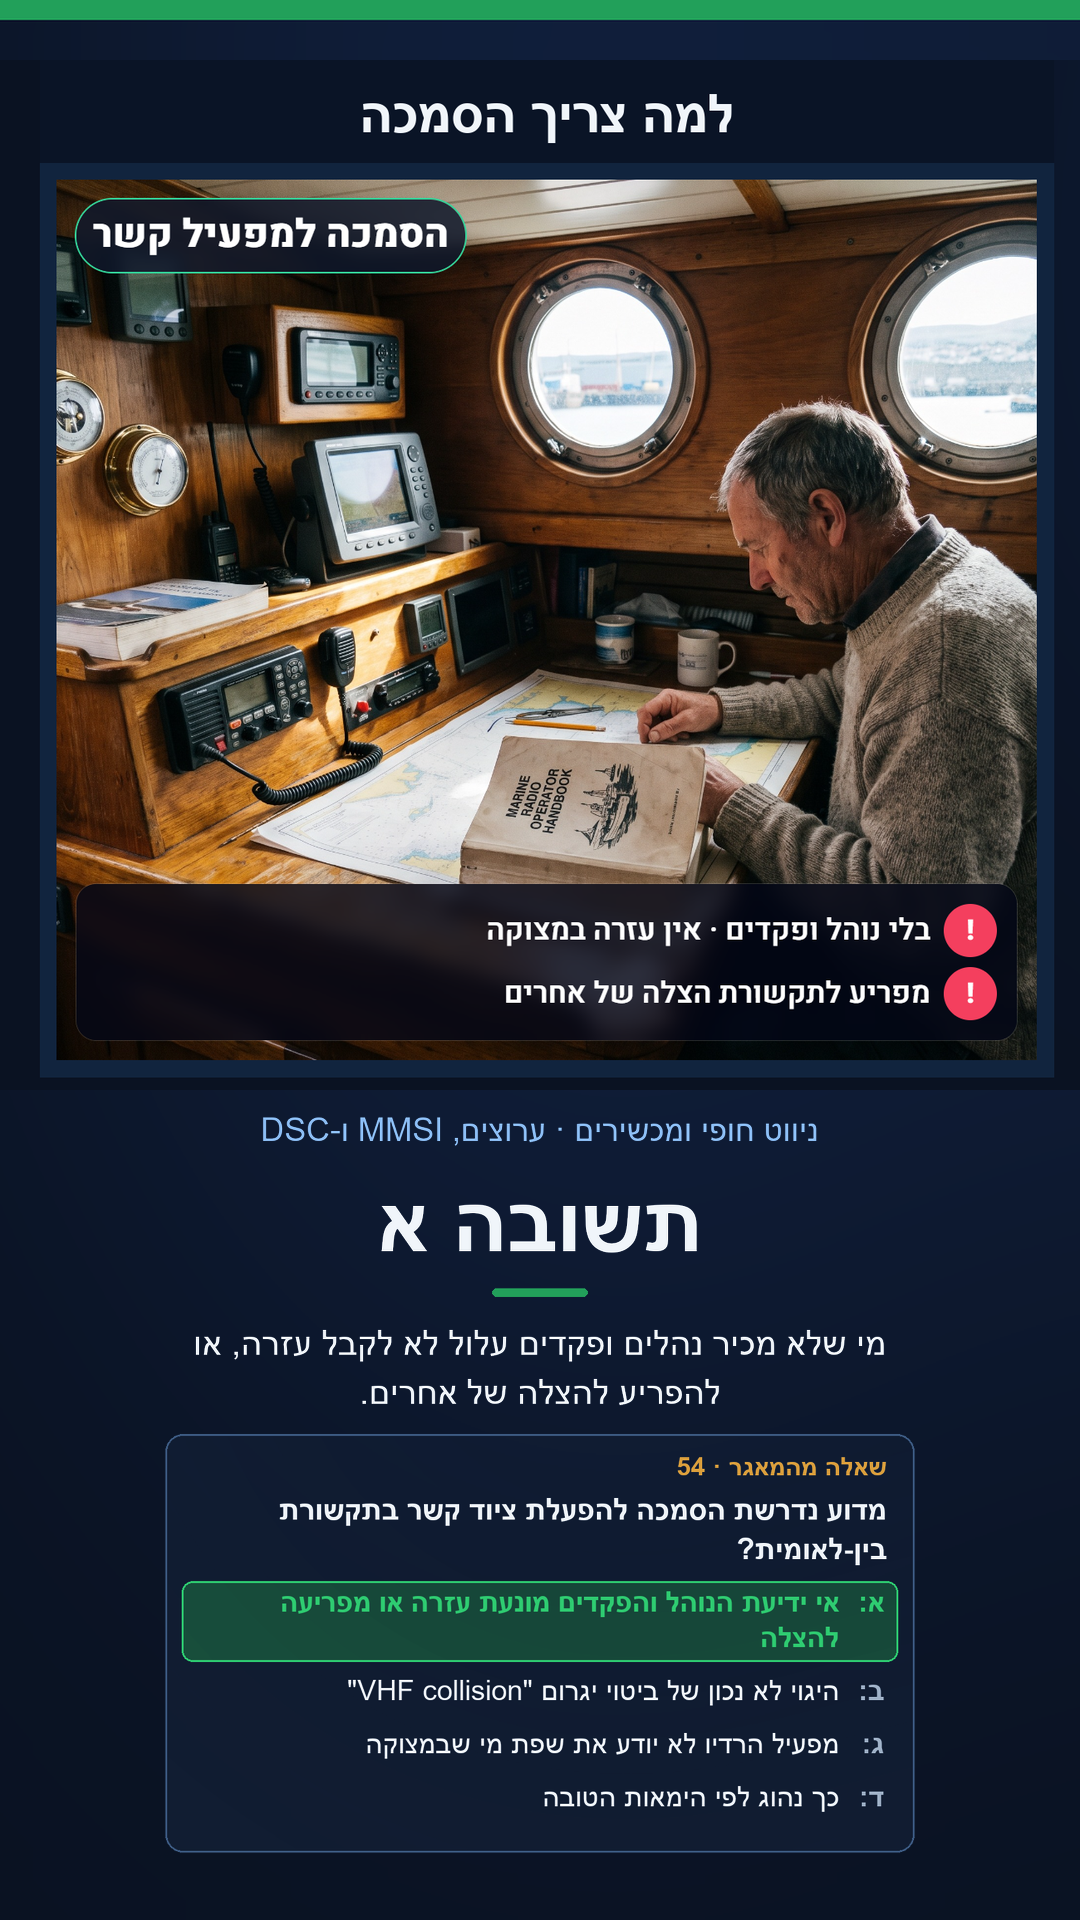
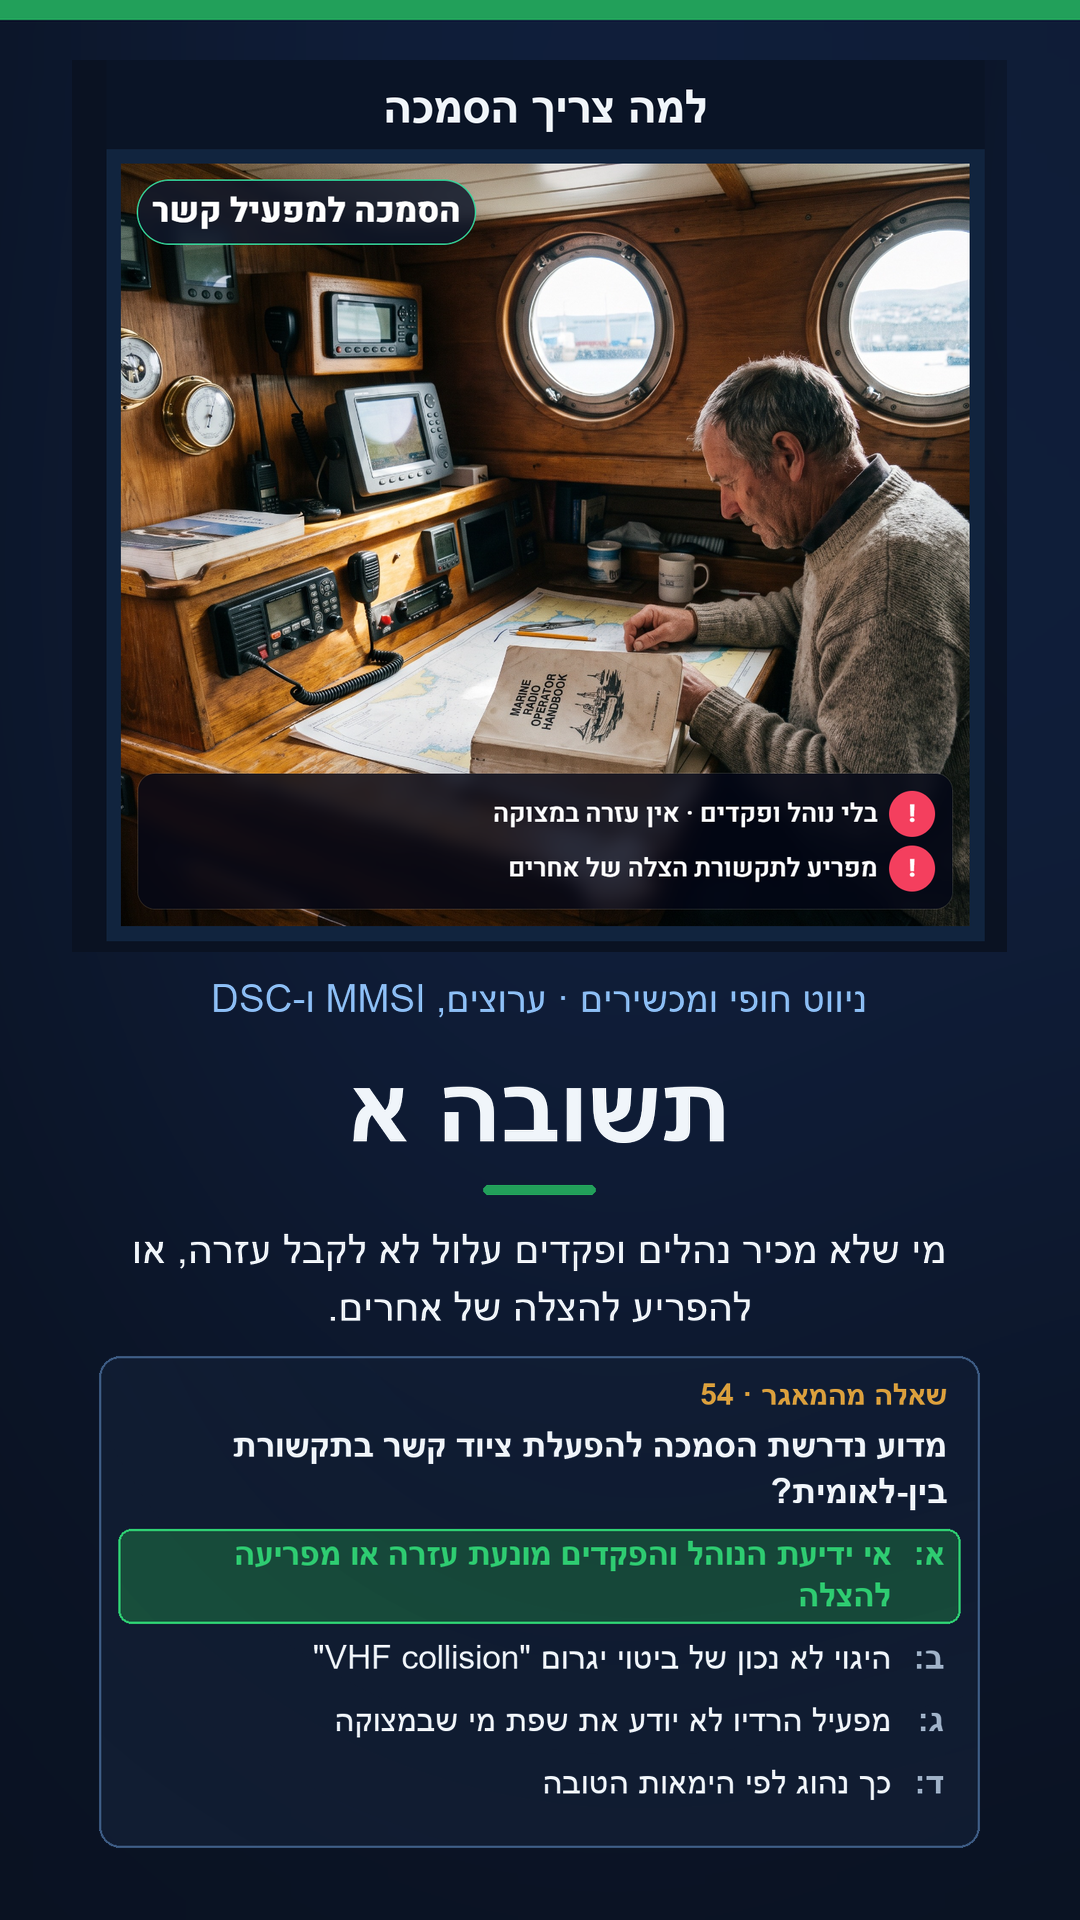
l30 mobile: 22 small-text phone cards rebuilt (shrink the visual, keep text >= 0.8 scale), lesson 5 s02_parts stacked; mobile videos of lessons 1-8, 10, 12, 14, 15 rebuilt

diff --git a/lessons/l30/sources/vertical.py b/lessons/l30/sources/vertical.py
@@ -13,6 +13,7 @@ LEFT = (0, 200, 1300, 1440)                     # caption + visual panel of a 25
 RIGHT = (1270, 0, 2560, 1440)                   # title, text, question
 BLANK = C.base()[0]
 BGIMG = BLANK.crop(RIGHT).resize((VW, VH), Image.LANCZOS)
+MIN_S = 0.8                                     # smallest scale for the title/text/question block on the phone
 
 def right_bbox(im, x0r=RIGHT[0]):
     """Tight box around the right block: diff against an empty card background."""
@@ -22,14 +23,31 @@ def right_bbox(im, x0r=RIGHT[0]):
     m = 40
     return (R[0] + max(0, x0 - m), max(0, y0 - m), R[0] + min(R[2] - R[0], x1 + m), min(1440, y1 + m))
 
+STACK = {'s02_parts': ((640, 40, 1920, 260), [(49, 290, 1267, 1414), (1293, 290, 2511, 1414)])}   # full-width cards: title + panels stacked
+
+def stack(im, dst, title, panels):
+    out = BGIMG.copy(); t = im.crop(title); t = t.resize((VW, round(t.height * VW / t.width)), Image.LANCZOS); out.paste(t, (0, 40))
+    y = 40 + t.height + 10; ph = (VH - y - 30) // len(panels) - 10
+    for box in panels:
+        p = im.crop(box); p = p.resize((round(p.width * ph / p.height), ph), Image.LANCZOS)
+        out.paste(p, ((VW - p.width) // 2, y)); y += ph + 10
+    out.save(dst)
+
 def vcard(src, dst):
     im = Image.open(src).convert('RGB')
+    sid = os.path.splitext(os.path.basename(src))[0]
+    if sid in STACK: return stack(im, dst, *STACK[sid])
     out = BGIMG.copy()
     top = im.crop(LEFT); top = top.resize((VW, round(top.height * VW / top.width)), Image.LANCZOS)
     out.paste(top, (0, 60))
     bb = right_bbox(im, 1305 if re.search(r'intro|summary', src) else RIGHT[0]); rb = im.crop(bb); room = VH - (60 + top.height) - 40
     mask = ImageChops.difference(rb, BLANK.crop(bb)).convert('L').point(lambda v: min(255, v * 6))   # content only, soft edges
     s = min(VW / rb.width, room / rb.height, 1.0)
+    if s < MIN_S and VW / rb.width >= MIN_S:        # tall right block: shrink the visual instead of the text (Alex 2026-10-15)
+        th = max(round(top.height * 0.55), VH - 60 - 40 - round(rb.height * MIN_S))
+        top = im.crop(LEFT); top = top.resize((round(top.width * th / top.height), th), Image.LANCZOS)
+        out = BGIMG.copy(); out.paste(top, ((VW - top.width) // 2, 60)); room = VH - (60 + th) - 40
+        s = min(VW / rb.width, room / rb.height, 1.0)
     if s < 0.7: print(f'  small text {s:.2f}: {os.path.basename(src)}', flush=True)
     sz = (round(rb.width * s), round(rb.height * s)); rb = rb.resize(sz, Image.LANCZOS); mask = mask.resize(sz, Image.LANCZOS)
     out.paste(rb, ((VW - rb.width) // 2, 60 + top.height + (room - rb.height) // 2), mask)

diff --git a/lessons/l30/mobile-status.md b/lessons/l30/mobile-status.md
@@ -29,7 +29,7 @@
 ## מה פתוח
 
 1. ~~שיעור 13, כרטיס s16~~ **תוקן (2026-10-15):** סרטון הכרטיס הוחזר, נבנו רחב, כתוביות ונייד (כולל קליפ 9:16).
-2. **11 כרטיסי נייד שהטקסט בהם יוצא קטן** (scale מתחת ל-0.7), בשיעורים 2-5 ו-15. כדי לתקן צריך לבנות אותם מחדש בפריסה החדשה, זו שבה מגבלות השורות נאכפות בקוד, ואז לבנות מחדש את הנייד של אותם שיעורים.
+2. ~~כרטיסי נייד עם טקסט קטן~~ **תוקן (2026-10-15):** 22 כרטיסים (לא 11) בשיעורים 1-8, 10, 12, 14, 15. ה-visual מוקטן במקום הטקסט, הטקסט לפחות בסקייל 0.8; s02_parts בשיעור 5 בנוי כשני פאנלים זה מעל זה.
 3. ~~כתוביות בנייד~~ **הוחלט (אלכס 2026-10-15): בלי כתוביות בנייד.** הן היו מסתירות את הכרטיס, שממלא את כל המסך.
 4. ~~סימן המים בנייד~~ **תוקן (2026-10-15):** בנייד רק סמל הסירה בעיגול; כל 19 סרטוני הנייד נבנו מחדש.
 5. ~~MAYDAY לשווא~~ **תוקן (2026-10-15):** כרטיס s20_false עם פקודת הטלגרף האלחוטי, חוק העונשין, רספ"ן, ITU ודוגמת ארה"ב.
